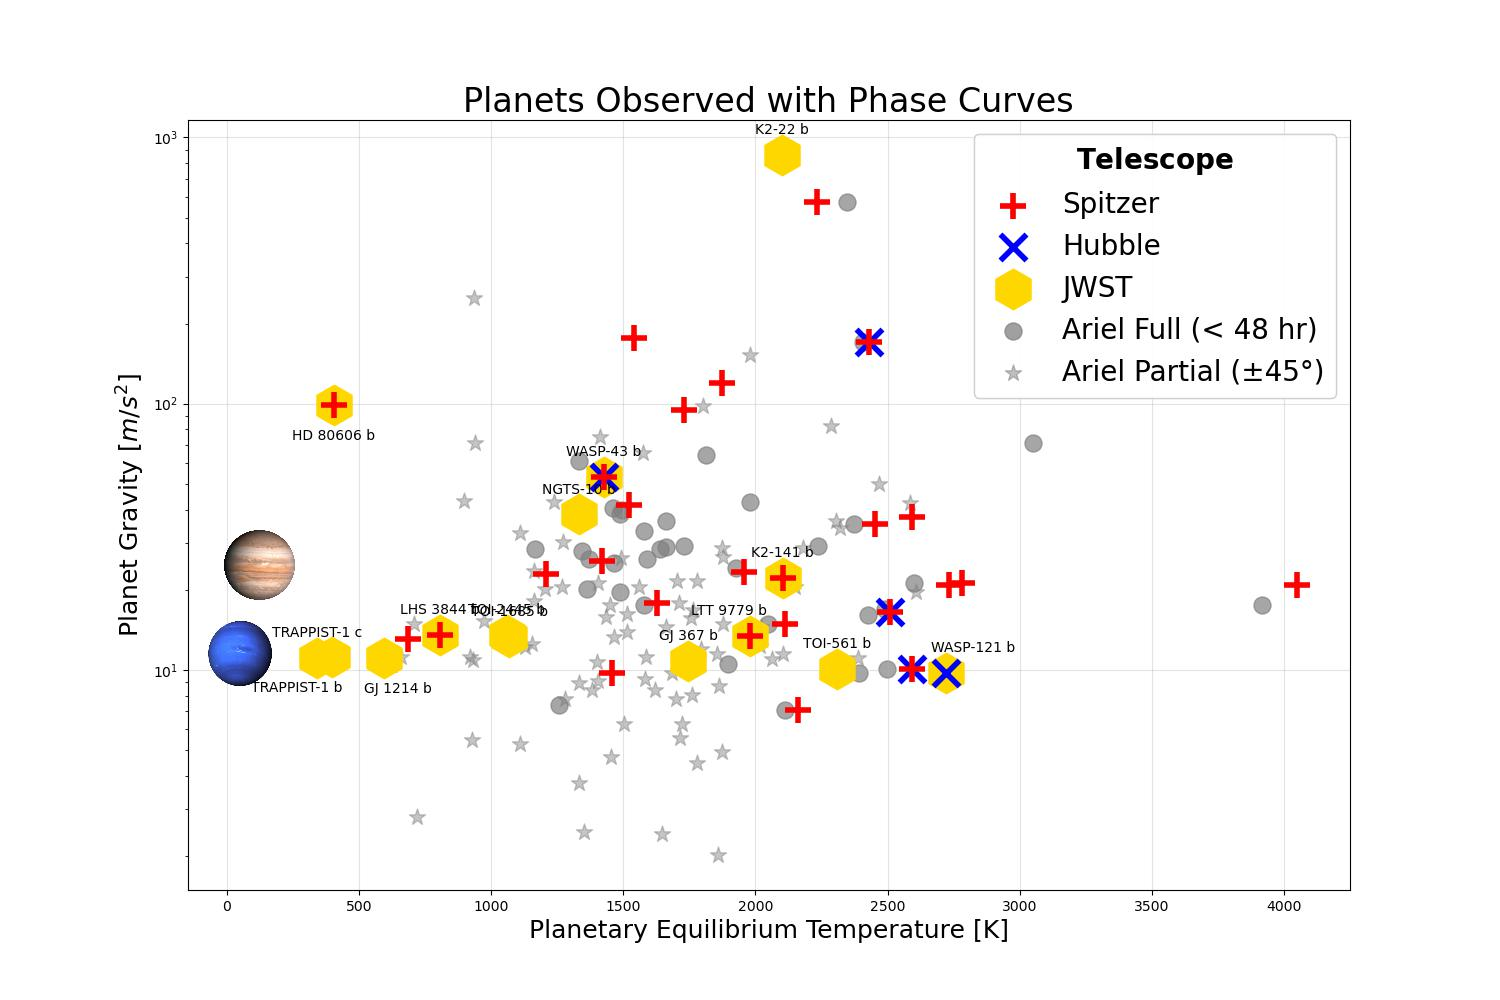
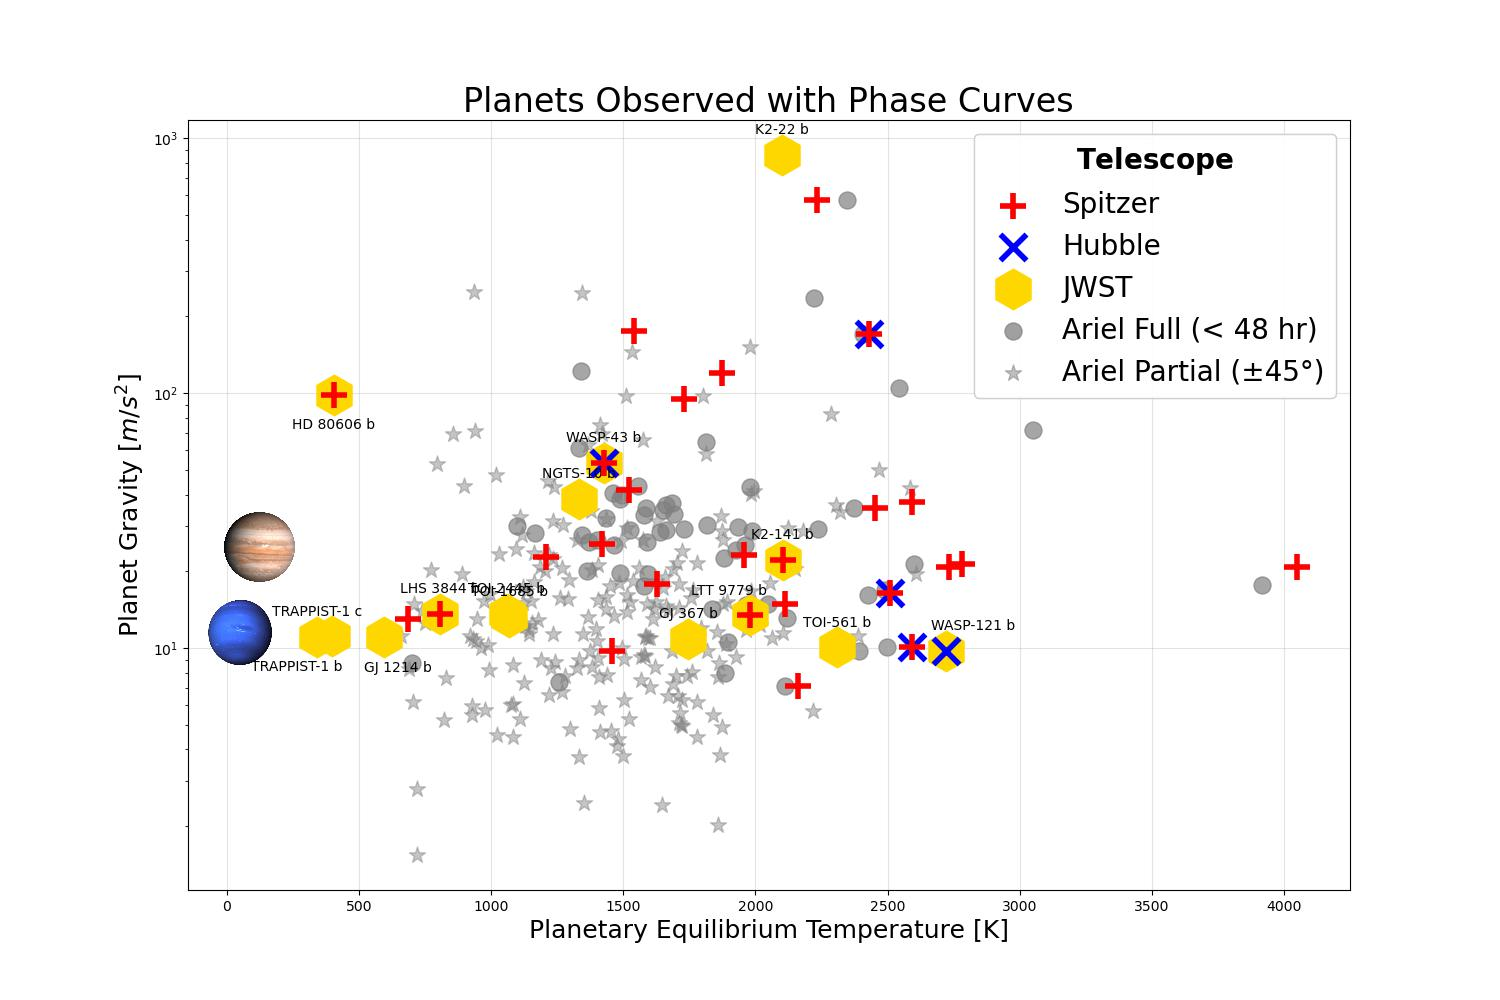
sunday update 3.0 (one year long cumulative observational time)

diff --git a/partial_phasecurve.py b/partial_phasecurve.py
@@ -4,7 +4,7 @@ from phasecurve_plot_cheryl import *
 # before and after the eclipse to account for phase curve offset
 angle = [45, 60, 80, 90]
 
-partial_cutoff = 150
+#partial_cutoff = 150
 
 # we filter out things that are smaller than 2 days
 # and we take a partial curve of all greater than 2 days, with the angle we defined

diff --git a/function_constants.py b/function_constants.py
@@ -79,7 +79,7 @@ def SNR_Ariel(t, R_star, d, T_star, lamb_1 , lamb_2, Rp, T_d):
     return snr
 
 ############## partial phase curve
-partial_cutoff = 150
+partial_cutoff = 360
 def new_cum_time(df, angle):
 
     df['Partial Period [days]'] = df['Planet Period [days]'].apply(lambda x: x if x <=2 else x * angle*2/360)

diff --git a/JWST_Phasecurve_prj.py b/JWST_Phasecurve_prj.py
@@ -1,9 +1,6 @@
 from phasecurve_plot_cheryl import *
 
 
-
-
-
 fig, ax = plt.subplots(figsize=(15, 10))
 # plt.figure(figsize=(15,10))
 
